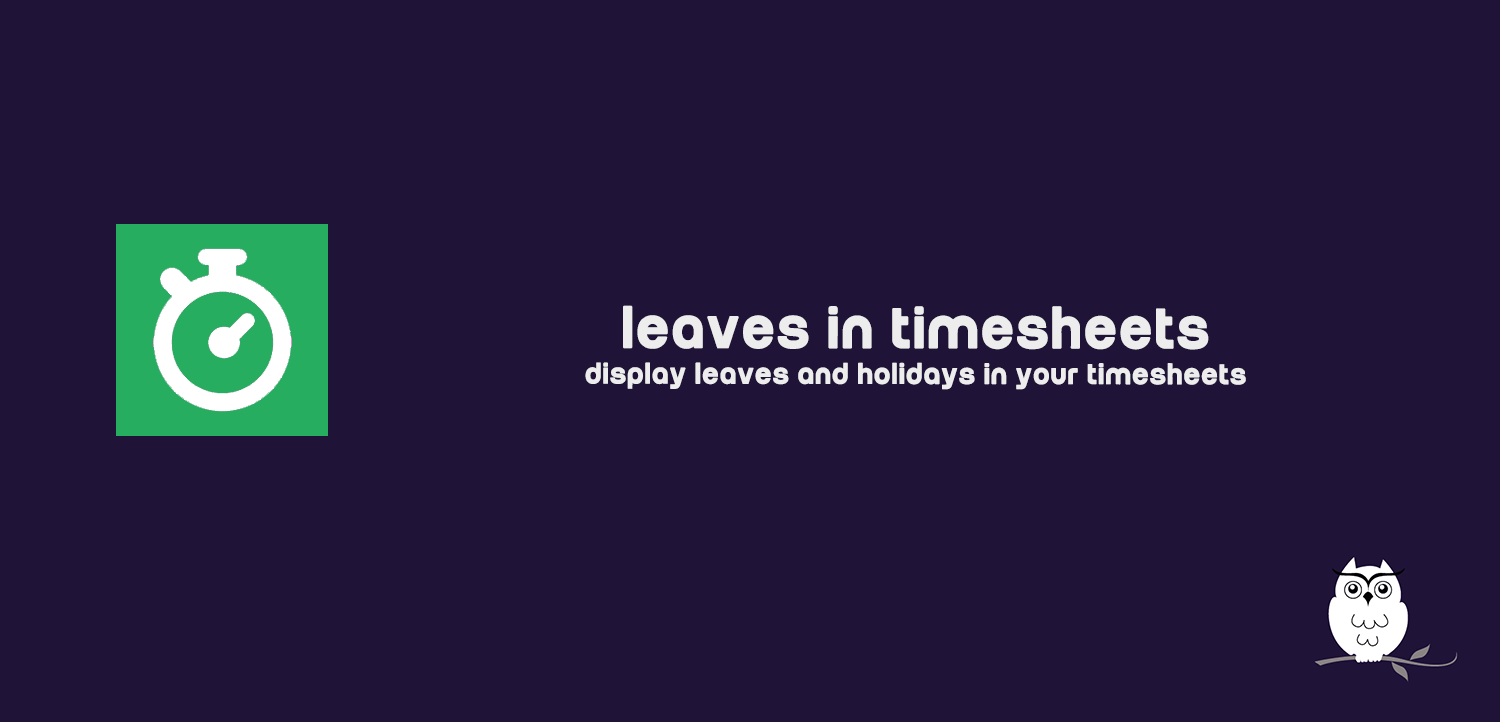
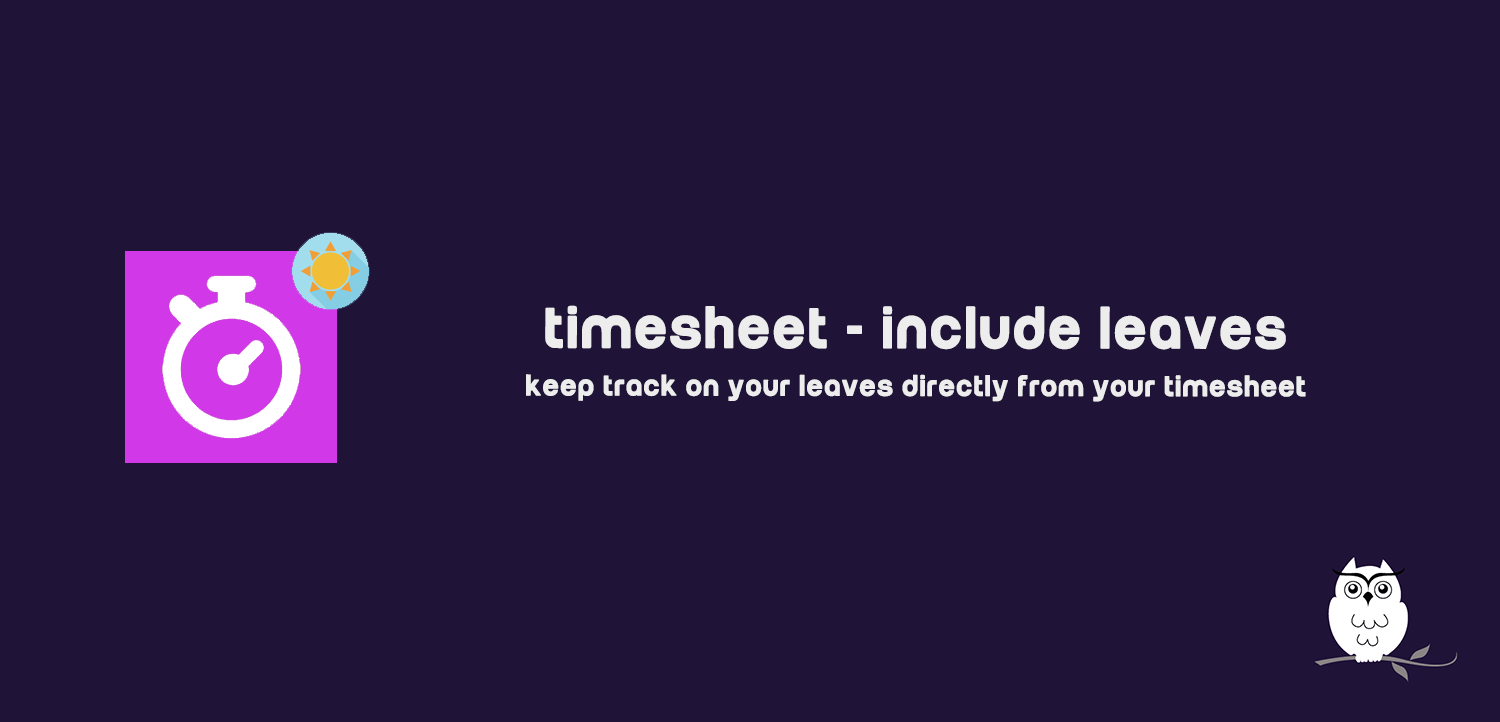
NIB-110: Finished description

Changed region(s): [[0.3373, 0.4266, 0.8893, 0.5485], [0.0613, 0.3047, 0.2453, 0.6399]]

diff --git a/hr_timesheet_task_presentation/static/description/index.html b/hr_timesheet_task_presentation/static/description/index.html
@@ -10,22 +10,21 @@
     <div id="desc" class="tab-pane active">
         <section class="oe_container">
             <div class="oe_row oe_spaced">
-                <h2 class="oe_slogan">Timesheet design improvement</h2>
-                <h3 class="oe_slogan">Use a more user-friendly timesheet</h3>
+                <h2 class="oe_slogan">Timesheet - Improved design</h2>
+                <h3 class="oe_slogan">Profit from a user-friendlier timesheet</h3>
                 <div class="oe_span6" style="display: block; margin: 0 auto; height:400px;">
                     <div style="display: inline-block; position: relative; z-index: 1;">
                         <img src="screen_niboo.png" style="margin: 0 auto; display: block; width: 425px;">
                     </div>
                     <img src="module_image.png" style="margin: 0 30px -335px 18px;display: block;position: relative;width: 389px;height: 222px;z-index: 0;top: -330px;"/>
                 </div>
-                <div class="oe_span6" style="font-size: 15px">
-                    <div>
-                        <p>This module improves the design of the HR timesheet. It groups the tasks by customer and allows the user to easily hide tasks.</p>
+                <div class="oe_span6" style="display: table;height: 300px;overflow: hidden;">
+                    <div style="font-size: 15px;display: table-cell;vertical-align: middle;">
+                        <p>Groups the tasks on the timesheet by customer and allows the user to easily hide tasks.</p>
                     </div>
                 </div>
             </div>
         </section>
-
 
         <section class="oe_container oe_separator"/>
 
@@ -51,11 +50,17 @@
         <h2 class="oe_slogan">User guide</h2>
         <section class="oe_container">
             <div class="oe_row oe_spaced">
-                <h3 class="oe_slogan">How to hide the tasks of a customer?</h3>
-                <div><img class="img img-responsive oe_span6" src="image_tuto.png"/></div>
-                <ol class="oe_span6" style="font-size: 15px">
-                    <p>Click next to the name of a customer to show/hide its tasks.</p>
-                </ol>
+                <h3 class="oe_slogan">How to hide tasks by customer</h3>
+                <div class="oe_span6" style="display: table;height: 300px;overflow: hidden;">
+                    <div style="display: table-cell;vertical-align: middle;">
+                        <img class="img img-responsive" style="border:1px solid lightgrey; padding: 5px;box-shadow: 4px 4px 8px lightgrey;" src="image_tuto.png"/>
+                    </div>
+                </div>
+                <div class="oe_span6" style="display: table;height: 300px;overflow: hidden;">
+                    <div style="font-size: 15px;display: table-cell;vertical-align: middle;">
+                        <p>Click next to the name of a customer to show/hide its tasks.</p>
+                    </div>
+                </div>
             </div>
         </section>
     </div>
@@ -73,8 +78,8 @@
                 </div>
                 <div class="oe_span6" style="display: table;height: 300px;overflow: hidden;">
                     <div style="font-size: 15px;display: table-cell;vertical-align: middle;">
-                        <h2>Leaves in your timesheets</h2>
-                        <p>Display the employee's approved holidays directly in their timesheet!</p>
+                        <h2>Timesheet - Include leaves</h2>
+                        <p>Keep track on your leaves directly from your timesheet.</p>
                     </div>
                 </div>
             </div>
@@ -82,9 +87,9 @@
         <section class="oe_container oe_dark">
             <div class="oe_row oe_spaced">
                 <div class="oe_span6" style="display: table;height: 300px;overflow: hidden;">
-                    <div style="font-size: 15px;display: table-cell;vertical-align: middle;">
-                        <h2>HR Timesheet - Select product</h2>
-                        <p>Choose a product for each timesheet entry!</p>
+                    <div class="text-right" style="font-size: 15px;display: table-cell;vertical-align: middle;">
+                        <h2>Timesheet - Select product</h2>
+                        <p>Select a product for each timesheet entry.</p>
                     </div>
                 </div>
                 <div class="oe_span6" style="display: table;height: 300px;overflow: hidden;">
@@ -100,18 +105,36 @@
             <div class="oe_row oe_spaced">
                 <div class="oe_span6" style="display: table;height: 300px;overflow: hidden;">
                     <div style="display: table-cell;vertical-align: middle;">
-                        <a href="https://apps.openerp.com/apps/modules/9.0/hr_timesheet_select_product">
-                            <img class="img img-responsive" style="border:1px solid lightgrey; padding: 5px;box-shadow: 4px 4px 8px lightgrey;" src="hr_timesheet_work_log_wizard_cover.png"/>
+                        <a href="https://apps.openerp.com/apps/modules/9.0/hr_timesheet_select_task">
+                            <img class="img img-responsive" style="border:1px solid lightgrey; padding: 5px;box-shadow: 4px 4px 8px lightgrey;" src="hr_timesheet_task_cover.png"/>
                         </a>
                     </div>
                 </div>
                 <div class="oe_span6" style="display: table;height: 300px;overflow: hidden;">
                     <div style="font-size: 15px;display: table-cell;vertical-align: middle;">
-                        <h2>HR Timesheet - Work Logger</h2>
-                        <p>Makes logging time easy and efficient!</p>
+                        <h2>Timesheet - Select task</h2>
+                        <p>Select a task for each timesheet entry.</p>
                     </div>
                 </div>
             </div>
         </section>
+        <section class="oe_container oe_dark">
+            <div class="oe_row oe_spaced">
+                <div class="oe_span6" style="display: table;height: 300px;overflow: hidden;">
+                    <div class="text-right" style="font-size: 15px;display: table-cell;vertical-align: middle;">
+                        <h2>HR Timesheet - Work Logger</h2>
+                        <p>Makes logging time easy and efficient.</p>
+                    </div>
+                </div>
+                <div class="oe_span6" style="display: table;height: 300px;overflow: hidden;">
+                    <div style="display: table-cell;vertical-align: middle;">
+                        <a href="https://apps.openerp.com/apps/modules/9.0/hr_timesheet_work_log_wizard">
+                            <img class="img img-responsive" style="border:1px solid lightgrey; padding: 5px;box-shadow: 4px 4px 8px lightgrey;" src="hr_timesheet_work_log_wizard_cover.png"/>
+                        </a>
+                    </div>
+                </div>
+            </div>
+        </section>
+
     </div>
 </div>

diff --git a/hr_timesheet_task_presentation/__openerp__.py b/hr_timesheet_task_presentation/__openerp__.py
@@ -4,14 +4,14 @@
 # License AGPL-3.0 or later (https://www.gnu.org/licenses/agpl.html).
 
 {
-    'name': 'HR - Timesheets design',
+    'name': 'Timesheet - Improved design',
     'category': 'HR',
-    'summary': 'A more user-friendly timesheet',
+    'summary': 'Profit from a user-friendlier timesheet',
     'website': 'https://www.niboo.be/',
     'version': '9.0.1.0.0',
     'license': 'AGPL-3',
     'description': """
-        Groups the tasks on a timesheet by customer and gives the option to easily hide tasks.
+        Groups the tasks on the timesheet by customer and allows the user to easily hide tasks.
         """,
     'author': 'Niboo',
     'depends': [
